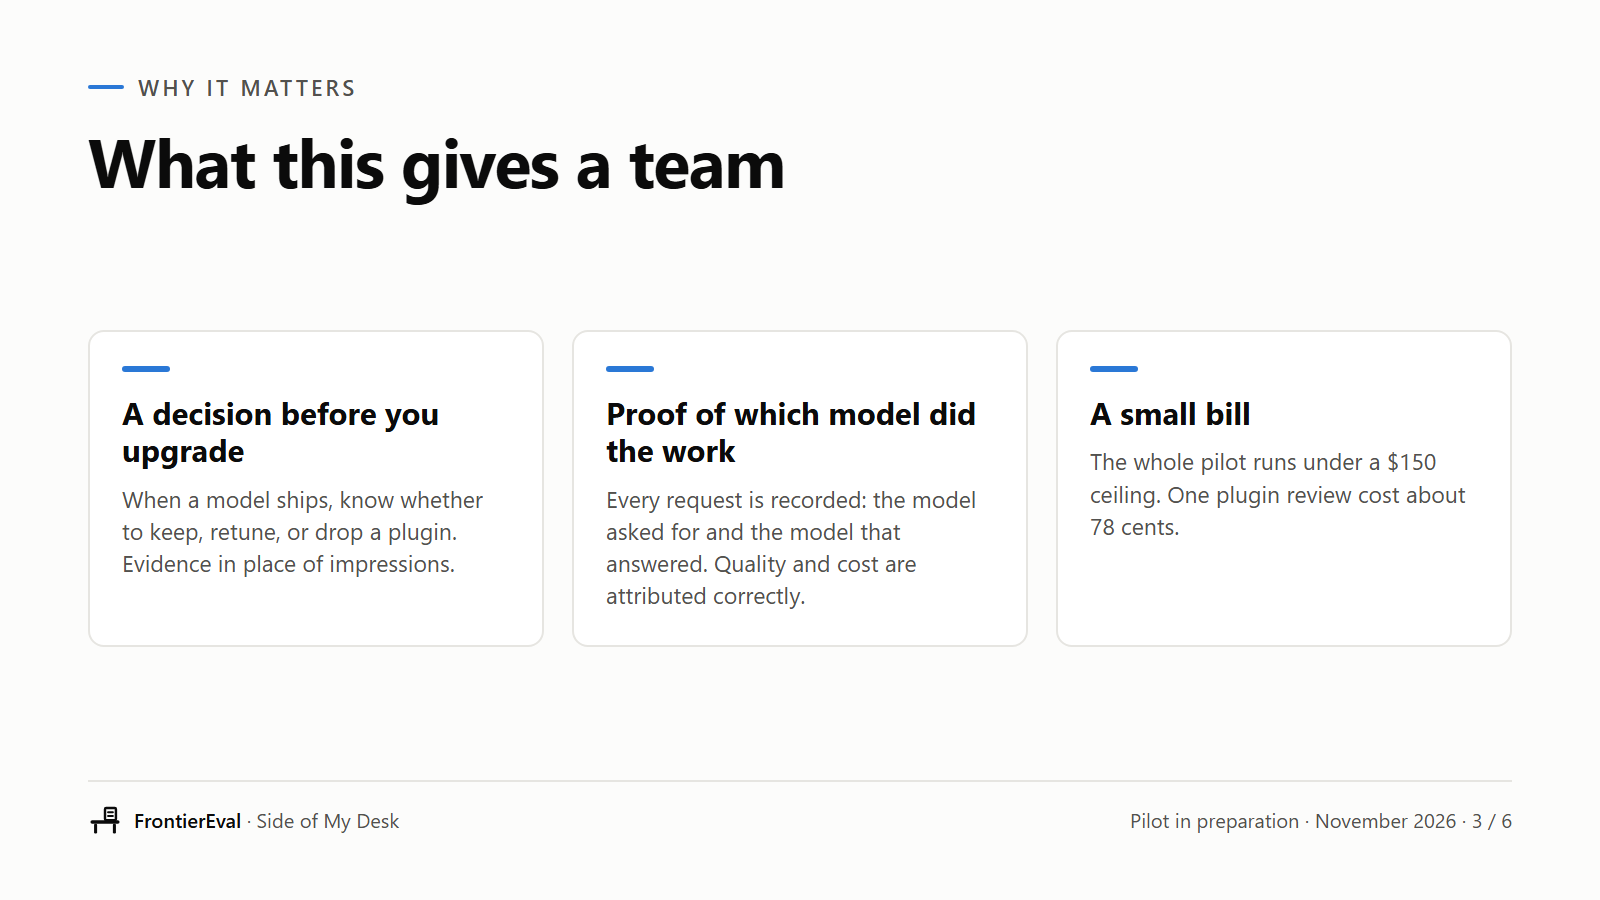
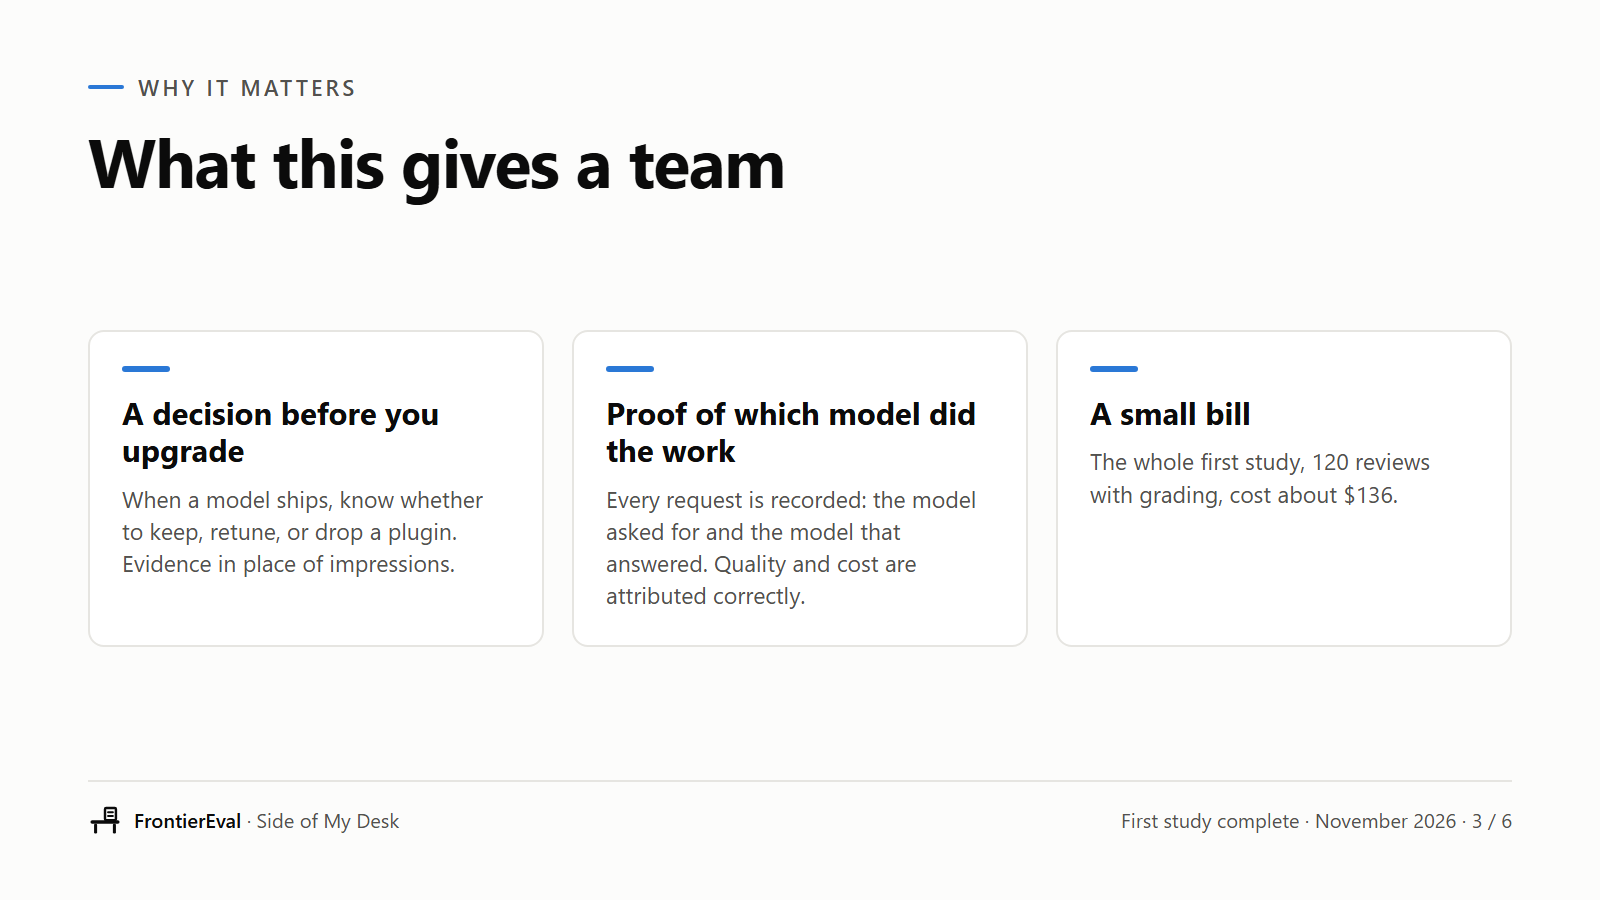
Update the wiki source with the first study's results

Changed region(s): [[0.6875, 0.4978, 0.9062, 0.5911], [0.6875, 0.9022, 0.8125, 0.9333]]

diff --git a/wiki/slides/build_slides.py b/wiki/slides/build_slides.py
@@ -67,7 +67,7 @@ h1.big{font-size:96px;max-width:1300px}
 LOGO = """<svg width="34" height="34" viewBox="0 0 28 28"><rect x="2" y="15" width="24" height="3" rx="1.5" fill="#0b0b0b"/><rect x="5" y="18" width="2.5" height="8" rx="1" fill="#0b0b0b"/><rect x="20.5" y="18" width="2.5" height="8" rx="1" fill="#0b0b0b"/><rect x="14" y="5" width="9" height="10" rx="1" fill="none" stroke="#0b0b0b" stroke-width="2"/><path d="M16.5 8.5h4M16.5 11.5h4" stroke="#0b0b0b" stroke-width="1.6" stroke-linecap="round"/></svg>"""
 
 
-def foot(n, right="Pilot in preparation \u00b7 November 2026"):
+def foot(n, right="First study complete \u00b7 November 2026"):
     return f'<div class="foot"><div class="brand">{LOGO}<span><b>FrontierEval</b> \u00b7 Side of My Desk</span></div><div>{right} \u00b7 {n} / 6</div></div>'
 
 
@@ -101,7 +101,7 @@ SLIDES = [
   <div class="cards c3">
     <div class="card"><div class="bar"></div><h3>A decision before you upgrade</h3><p>When a model ships, know whether to keep, retune, or drop a plugin. Evidence in place of impressions.</p></div>
     <div class="card"><div class="bar"></div><h3>Proof of which model did the work</h3><p>Every request is recorded: the model asked for and the model that answered. Quality and cost are attributed correctly.</p></div>
-    <div class="card"><div class="bar"></div><h3>A small bill</h3><p>The whole pilot runs under a $150 ceiling. One plugin review cost about 78 cents.</p></div>
+    <div class="card"><div class="bar"></div><h3>A small bill</h3><p>The whole first study, 120 reviews with grading, cost about $136.</p></div>
   </div>
 </div>
 {foot(3)}"""),
@@ -120,7 +120,7 @@ SLIDES = [
 {foot(4)}"""),
 
     ("5-findings", f"""
-<div class="kicker"><i></i>What we have found so far</div>
+<div class="kicker"><i></i>What we saw while setting up</div>
 <h1>Four things we did not expect</h1>
 <div class="grow">
   <div class="cards c4">
@@ -134,18 +134,15 @@ SLIDES = [
 {foot(5)}"""),
 
     ("6-result", f"""
-<div class="kicker"><i></i>The result we are waiting for</div>
-<h1>Does the plugin help less on the newer model?</h1>
+<div class="kicker"><i></i>The result</div>
+<h1>Without the plugin, each model found about twice as many known issues.</h1>
 <div class="grow">
   <div class="pair">
-    <div class="card"><div class="tag">Released before the plugin's instructions</div><h3>Claude Opus 5.5</h3><div class="q" style="margin-top:18px">?</div><p>How much better is review with the plugin than without it</p></div>
-    <div class="vs">vs</div>
-    <div class="card"><div class="tag">Released after the plugin's instructions</div><h3>Claude Fable 5.2</h3><div class="q" style="margin-top:18px">?</div><p>The same measure, on the newer model</p></div>
+    <div class="card"><div class="tag">Released before the plugin's instructions</div><h3>Claude Opus 5.5</h3><div class="num" style="margin-top:18px">31% <small>vs</small> 66%</div><p>Known issues found: with the plugin vs without it</p></div>
+    <div class="vs"></div>
+    <div class="card"><div class="tag">Released after the plugin's instructions</div><h3>Claude Fable 5.2</h3><div class="num" style="margin-top:18px">32% <small>vs</small> 73%</div><p>Known issues found: with the plugin vs without it</p></div>
   </div>
-  <div style="display:flex;justify-content:space-between;align-items:center;margin-top:30px">
-    <div class="note" style="font-size:24px;margin:0;max-width:1050px">If plugins age badly, the left number is larger than the right. 120 reviews of 15 real pull requests will tell us.</div>
-    <div class="pending"><i></i>Results pending</div>
-  </div>
+  <div class="callout" style="margin-top:30px;font-size:26px">Plugins age badly? Partly supported. <span>The plugin's one advantage, being right more often, was clearly smaller on the newer model. The gap in issues found could be chance. A first look: 120 reviews of 15 pull requests.</span></div>
 </div>
 {foot(6)}"""),
 ]

diff --git a/wiki/Results.md b/wiki/Results.md
@@ -1,55 +1,118 @@
 # Results
 
-> **Placeholder. The scored pilot has not run.** This page describes what will be reported, so the presentation is fixed before the numbers exist. Nothing below is a result.
+> **First study, November 2026.** 120 reviews of 15 real pull requests: with and without the plugin, on Claude Opus 5.5 and Claude Fable 5.2, twice each. Read it as a first look. The limits are at the bottom of this page and in the [paper](https://research.sideofmydesk.com/edition-1/).
 
-## What will appear here
+## In short
 
-### 1. Run accounting
+- **Without the plugin, each model found about twice as many of the known issues.**
+- **With the plugin, reviews said far less, and more of what they said matched a known issue.**
+- **The plugin cost about 1.5 times as much per review.**
+- **"Plugins age badly" got partial support.** The plugin's one advantage was clearly smaller on the newer model. The gap in issues found could be chance.
 
-Before any score: how many of the 120 runs completed, and what happened to the rest.
+## 1. Run accounting
 
-| Model | Arm | Completed | Refused | Fallback | Skipped by plugin | Harness failure |
-|---|---|---|---|---|---|---|
-| Opus 5.5 | Plugin | | | | | |
-| Opus 5.5 | Baseline | | | | | |
-| Fable 5.2 | Plugin | | | | | |
-| Fable 5.2 | Baseline | | | | | |
+| Model | Setup | Completed | Refused |
+|---|---|---|---|
+| Opus 5.5 | With the plugin | 30 | 0 |
+| Opus 5.5 | Without it | 30 | 0 |
+| Fable 5.2 | With the plugin | 29 | 1 |
+| Fable 5.2 | Without it | 30 | 0 |
 
-### 2. Recall and precision
+No run switched to a fallback model, posted to a pull request, or changed the checked-out code. The one refused run happened when a helper running on Opus 5.5 was stopped by a safety filter while looking at a cross-site scripting issue. It is left out of the scores.
 
-**Planned chart:** a scatter plot with recall on one axis and precision on the other, one point per model and arm, with interval bars. This is the central picture: it shows the trade between catching more and saying less.
+## 2. Known issues found, and how often a finding matched one
 
-**Planned table:** recall, precision, and their intervals for each of the four cells, under the benchmark's Strict profile (bugs, security, concurrency, data, and API issues).
+| Model | Setup | Known issues found | Findings that matched a known issue | Findings per review | Cost per review |
+|---|---|---|---|---|---|
+| Opus 5.5 | With the plugin | 31.1% (19.4 to 45.5) | 53.2% (35.7 to 71.3) | 2.1 | $0.60 |
+| Opus 5.5 | Without it | 66.0% (54.7 to 78.6) | 21.3% (16.9 to 26.2) | 11.3 | $0.41 |
+| Fable 5.2 | With the plugin | 31.6% (19.6 to 44.8) | 43.1% (28.8 to 57.0) | 2.5 | $1.75 |
+| Fable 5.2 | Without it | 72.6% (63.0 to 83.3) | 26.5% (21.0 to 32.0) | 10.1 | $1.14 |
 
-### 3. Per-case view
+The numbers in brackets are 95% ranges, found by resampling the 15 pull requests 10,000 times.
 
-**Planned chart:** for each of the 15 pull requests, the number of ground-truth issues found by each arm, side by side. This shows whether a difference is broad or driven by a few cases.
+![Known issues found, by model and setup](images/chart-01-recall.png)
 
-### 4. Findings beyond the ground truth
+![Share of findings that matched a known issue](images/chart-02-precision.png)
 
-How many findings matched no golden comment, and how many of those the checker judged real. Reported separately from precision.
+![Findings per review](images/chart-05-volume.png)
 
-### 5. Consistency
+## 3. What the plugin changed, and the hypothesis
 
-**Planned chart:** agreement between the two repeats of each case. A reviewer that finds different things each time is harder to rely on.
+| | Opus 5.5 | Fable 5.2 | Difference between models |
+|---|---|---|---|
+| Known issues found: plugin minus no plugin | −34.9 points | −41.0 points | −6.1 (−14.5 to +3.7): not clear |
+| Findings that matched: plugin minus no plugin | +31.9 points | +16.6 points | −15.4 (−30.1 to −3.2): clear |
 
-### 6. Cost
+![What the plugin changed on each model](images/chart-03-plugin-effect.png)
 
-**Planned chart:** stacked bars of estimated cost per run by model tier (Haiku, Sonnet, Opus, Fable), for each cell. This shows where the plugin's cost goes.
+![The hypothesis test: did the plugin's effect differ between models?](images/chart-04-hypothesis.png)
 
-**Planned table:** tokens and estimated dollars per run, and cost per ground-truth issue found.
+The prediction was that the plugin would help less on the newer model. On the share of findings that matched a known issue, it did, and the range does not include zero. On known issues found, the plugin did worse than no plugin on both models, and the difference between models could be chance. So the idea got some support. It is not proven.
 
-### 7. Which models did the work
+## 4. Pull request by pull request
 
-**Planned chart:** for plugin runs, the share of requests and tokens served by each model. This makes visible that a "Fable 5.2 with plugin" run is mostly not Fable.
+On none of the 15 pull requests did the plugin find more of the known issues than the simple request, on either model. Each model had two ties.
 
-### 8. Comparison with published numbers
+![Known issues found on each pull request](images/chart-08-per-case.png)
 
-The benchmark stores a prior run that appears to be this plugin (January 2026): precision 0.46, recall 0.38 under its Opus 4.5 judge. Our numbers will be set beside it with the caveats that apply: different date, unknown model and plugin commit, a different judge, and two-commit case copies.
+![Known issues found, by how serious the issue is](images/chart-11-severity.png)
 
-## How to read the results when they arrive
+## 5. Consistency
 
-- The run is **exploratory**. No thresholds were set in advance.
-- Fifteen cases give wide intervals. A difference inside the intervals is not a finding.
-- The cases and their answers are public. Scores may flatter every arm.
-- Precision is a lower bound, because the ground truth is incomplete.
+Each pull request was reviewed twice in each setup. Of the known issues found at least once, the share found both times:
+
+| Model | With the plugin | Without it |
+|---|---|---|
+| Opus 5.5 | 65% | 84% |
+| Fable 5.2 | 63% | 83% |
+
+![Agreement between the two repeats](images/chart-09-consistency.png)
+
+## 6. Cost, and which models did the work
+
+![Cost per review, by the model that did the work](images/chart-06-cost.png)
+
+- **The plugin picks its own models.** When Fable 5.2 was chosen, the plugin's bug-hunting helpers still ran on Opus 5.5. That was 43% of the cost of those reviews ($0.75 of $1.75).
+- **Opus 5.5 often skipped the plugin's process.** In 13 of 30 plugin reviews it started no helpers and did the work alone. Those reviews cost $0.28 against $0.85, and found about as many known issues (29.5% against 32.3%).
+- **Fable 5.2 started helpers every time.**
+
+![How often each model followed the plugin's helper process](images/chart-07-delegation.png)
+
+## 7. Findings outside the test set
+
+The reviews reported 543 findings that matched no known issue. A checker model looked at every one.
+
+| Checker's verdict | Findings |
+|---|---|
+| Real | 285 |
+| Not real | 136 |
+| Cannot tell | 122 |
+
+The 285 "real" findings come to **123 separate issues** that the test set does not list. The test set lists 53 for these pull requests. Reviews without the plugin found 118 of the 123; reviews with it found 24.
+
+A second, more careful review looked again at 30 of the checker's verdicts without seeing them. It agreed on 24 (16 of 20 "real", 8 of 10 "not real"). So the true number is probably somewhat lower than 123. Both reviews were done by AI models. No person checked either.
+
+![What the checker said about findings outside the test set](images/chart-10-unmatched.png)
+
+![New issues found with and without the plugin](images/chart-12-new-issues.png)
+
+This matters for reading section 2. A "finding that matched no known issue" is not the same as a wrong finding. The low matching rate without the plugin partly reflects a test set that is missing issues.
+
+## What this study cannot show
+
+- **It is small.** 15 pull requests, one plugin, two models. The ranges are wide.
+- **The test set is public.** The models may have seen the pull requests and the answers.
+- **An AI did the grading.** No person checked the judge or the checker.
+- **No pass marks were set ahead of time.** This is a first look, and it should be read as one.
+- **The pull requests were copies**, squashed to two commits, so the plugin could not look at history as it would in real use.
+- **One wording of the simple request was used.** A different wording could move the result.
+- **Two models are two points.** They cannot show a trend over time.
+
+The paper's section "What this study cannot show" says more.
+
+## Files
+
+- [`results/pilot-1/runs.csv`](https://github.com/sideofmydesk/frontier-eval/blob/main/results/pilot-1/runs.csv): one row per review.
+- [`results/pilot-1/summary.json`](https://github.com/sideofmydesk/frontier-eval/blob/main/results/pilot-1/summary.json): every number on this page.
+- [The paper (PDF)](https://research.sideofmydesk.com/edition-1/michel-2026-code-review-plugin.pdf).

diff --git a/wiki/Learnings-and-Next-Steps.md b/wiki/Learnings-and-Next-Steps.md
@@ -4,13 +4,19 @@
 
 The hypothesis is that **plugins age badly**: instructions written for an older model add less on a newer one.
 
-**Not yet known.** The pilot that tests it has not run. This section will be rewritten when it has, and it will say plainly whether the prediction held, failed, or could not be told apart from noise.
+**Partly.** The first study gives it some support. It does not prove it.
 
-What can be said today is that the question turned out to be less simple than it looked. "Does the plugin still help on the new model?" assumes the plugin's work is done by the new model. For this plugin, most of it is not. The plugin picks its own models, so one way a plugin can age is by never using the model you upgraded to.
+- **What supports it.** The plugin's one advantage is that more of its findings match a known issue. That advantage was +31.9 points on Opus 5.5 and +16.6 points on Fable 5.2. The difference, −15.4 points (−30.1 to −3.2), is clear of zero.
+- **What does not.** On known issues found, the plugin did worse than a simple request on both models: −34.9 points on Opus 5.5 and −41.0 on Fable 5.2. The difference between models, −6.1 points (−14.5 to +3.7), could be chance.
+- **What we did not expect.** The bigger result is not about ageing. On both models, the plugin found about half as many known issues as just asking, and cost about 1.5 times as much. That was already true on the model the plugin's instructions were written beside.
 
-## Learnings so far
+The question also turned out to be less simple than it looked. "Does the plugin still help on the new model?" assumes the plugin's work is done by the new model. For this plugin, much of it is not. The plugin picks its own models, so one way a plugin can age is by never using the model you upgraded to. On Fable 5.2 reviews, 43% of the plugin's cost went to helpers running on Opus 5.5.
 
-These are about method. They hold whatever the results turn out to be.
+Two models are two points. They cannot show a trend. See [Results](Results) for the numbers and the limits.
+
+## Learnings
+
+The first eight are about method. The last three came from the results.
 
 **1. Read the plugin before designing the test.**
 An hour of reading changed the design more than anything else. The plugin names its own models, has a narrower scope than its description suggests, and ships a README that describes a previous version.
@@ -36,21 +42,26 @@ The best available one has public answers, no clean cases, and no line-level gro
 **8. Small frictions are real.**
 Line-ending conversion on Windows changed the plugin's bytes until it was caught by a checksum. A cloud-synced folder blocked a file deletion mid-run. An organisation-level API key was rejected for lacking a workspace. None is interesting, and each would have cost time later.
 
+**9. A model may not follow the plugin.**
+Opus 5.5 skipped the plugin's helper process in 13 of 30 reviews. Those reviews cost a third as much and found about as many known issues.
+
+**10. The test set is missing most of the issues.**
+A checker judged 285 findings outside the test set to be real: 123 separate issues, against 53 listed. A second review agreed with 24 of 30 sampled verdicts. Any score built on "matched a known issue" undercounts a thorough reviewer.
+
+**11. Leave the machine awake.**
+The run stopped at 113 of 120 when the computer slept. The harness can now pick up where it left off and grade saved reviews without paying for them again.
+
 ## Next steps
 
-### To finish the pilot
+### Done
 
-1. Create the remaining 14 private pull request copies.
-2. Build the judge and the checker, and hand-check a sample of their verdicts.
-3. Run one case on Fable 5.2 to measure its cost before committing to all 120 runs.
-4. Run the pilot inside a short window, so both models see the same serving conditions.
-5. Reconcile estimated cost against billed usage.
-6. Publish results on the [Results](Results) page, limits included.
+The first study is finished and published: 120 reviews, graded, with a check of findings outside the test set and a second review of a sample of that check. One step is still open: comparing the estimated cost (about $136) with the billed amount.
 
-### After the pilot
+### Next
 
 | Step | Why |
 |---|---|
+| **People checking a sample of the grading** | Every verdict so far came from an AI model |
 | **A leak-free case set**: recent pull requests from after the models' training cutoff, some left clean, some with one injected bug | The current corpus cannot measure false alarms on clean changes or rule out memorisation |
 | **A second arm that forces one model onto every subagent** | Separates "the plugin's instructions" from "the plugin's choice of models" |
 | **The older plugin version** | Tests whether the October rewrite helped |

diff --git a/wiki/Home.md b/wiki/Home.md
@@ -1,6 +1,6 @@
 **Six slides, two minutes.** Each slide is a 1600×900 image you can save and drop into your own deck. The bullets beneath each one are the talking points. Click a slide to open the detail behind it.
 
-> **Status (15 November 2026): pilot in preparation.** The method is built and proven on real runs. The scored pilot has not run, so slide 6 is still a question.
+> **Status (November 2026): the first study is done.** 120 reviews of 15 real pull requests. Slide 6 has the answer, the [Results](Results) page has every chart, and the [paper](https://research.sideofmydesk.com/edition-1/) has the full account. Read it as a first look.
 
 ---
 
@@ -26,7 +26,7 @@
 
 - **A decision before you upgrade.** When a model ships, know whether to keep, retune, or drop a plugin.
 - **Proof of which model did the work.** Quality and cost are attributed to the model that actually answered.
-- **A small bill.** The whole pilot runs under a $150 ceiling. One plugin review cost about 78 cents.
+- **A small bill.** The whole first study, 120 reviews with grading, cost about $136.
 
 *Detail: [Learnings and Next Steps](Learnings-and-Next-Steps)*
 
@@ -43,25 +43,26 @@
 
 ---
 
-[![What we have found so far: 3 models did the work in one single-model review; 1 versus 12 issues reported by plugin and plain prompt; 0 warnings when a different model answered; a plugin review cost 2.6 times a plain one.](images/slide-5-findings.png)](Early-Findings)
+[![What we saw while setting up: 3 models did the work in one single-model review; 1 versus 12 issues reported by plugin and plain prompt; 0 warnings when a different model answered; a plugin review cost 2.6 times a plain one.](images/slide-5-findings.png)](Early-Findings)
 
 - **The plugin picks its own models.** We chose one model for a review. The plugin sent the work to three.
 - **The plugin is selective; a plain prompt is thorough.** On one pull request with 6 known issues, the plugin reported 1 and the plain prompt reported 12.
 - **The tool did not flag a model switch.** In testing, its own summary credited the model we asked for when a different one answered.
 - **The plugin costs more.** About 2.6 times a plain review on the same pull request.
 
-These are early observations from set-up runs on one pull request. They are not pilot results.
+These are observations from set-up runs on one pull request. The scored results are on slide 6.
 
 *Detail: [Early Findings](Early-Findings)*
 
 ---
 
-[![The result we are waiting for: does the plugin help less on the newer model? Claude Opus 5.5 versus Claude Fable 5.2. Results pending.](images/slide-6-result.png)](Results)
+[![The result: without the plugin, each model found about twice as many known issues. Claude Opus 5.5: 31% with the plugin, 66% without. Claude Fable 5.2: 32% with, 73% without. The hypothesis is partly supported.](images/slide-6-result.png)](Results)
 
-- **The measure:** how much better review is with the plugin than without it, on each model.
-- **The prediction:** if plugins age badly, the plugin helps less on the newer model.
-- **The test:** 120 reviews of 15 real pull requests, across both models.
-- **Not yet run.** This slide will be replaced with the answer.
+- **Without the plugin, each model found about twice as many of the known issues.** 31% against 66% on Opus 5.5, and 32% against 73% on Fable 5.2.
+- **The plugin says little, and is right more often.** About 2 findings per review against about 10, and more of them matched a known issue.
+- **The plugin cost about 1.5 times as much per review.**
+- **Plugins age badly? Partly supported.** The plugin's one advantage was clearly smaller on the newer model. The gap in issues found could be chance.
+- **A first look.** 15 pull requests, one plugin, two models, graded by an AI.
 
 *Detail: [Results](Results)*
 
@@ -73,7 +74,7 @@ These are early observations from set-up runs on one pull request. They are not 
 2. When we upgrade a model, do our plugins use it, or do they name their own?
 3. If a request were answered by a different model than the one we selected, would we know?
 4. Do we want an AI reviewer that says little and is usually right, or one that says a lot and needs filtering?
-5. What would it cost us to answer these with a measurement? Here it was under $150.
+5. What would it cost us to answer these with a measurement? Here it was about $136.
 
 ## Go deeper
 

diff --git a/wiki/Early-Findings.md b/wiki/Early-Findings.md
@@ -1,6 +1,6 @@
 # Early Findings
 
-These came out of preparation: reading the plugin, checking claims against Anthropic's documentation, and testing the logging. None of them is a pilot result. Several changed the design.
+These came out of preparation: reading the plugin, checking claims against Anthropic's documentation, and testing the logging. None of them is a scored result; those are on the [Results](Results) page. Several changed the design.
 
 ## From reading the plugin
 

diff --git a/wiki/Deep-Dive.md b/wiki/Deep-Dive.md
@@ -26,5 +26,5 @@ Start at **[For AI Evaluators](For-AI-Evaluators)**.
 
 | Page | Why read it |
 |---|---|
-| [Results](Results) | Pilot results. A placeholder until the pilot has run. |
+| [Results](Results) | Results of the first study, with every chart and the limits. |
 | [Learnings and Next Steps](Learnings-and-Next-Steps) | What we learned about method, and what comes next |

diff --git a/wiki/_Footer.md b/wiki/_Footer.md
@@ -1,1 +1,1 @@
-FrontierEval is a project of Side of My Desk. Pilot in preparation: results are not yet published.
+FrontierEval is a project of Side of My Desk. First study published November 2026. Code under the MIT License; paper and results under CC BY 4.0.
